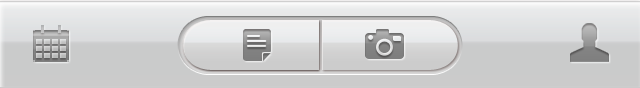
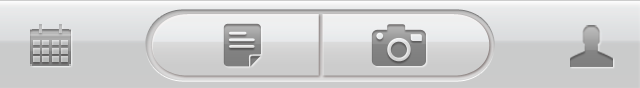
toolbar revised.

diff --git a/wammer/WATimelineViewControllerPhone.m b/wammer/WATimelineViewControllerPhone.m
@@ -118,14 +118,14 @@ static NSString * const WAPostsViewControllerPhone_RepresentedObjectURI = @"WAPo
 //    UIBarButtonItem *buttonBarShare = [[UIBarButtonItem alloc]initWithImage:[UIImage imageNamed:@"top_icon_share.png"] style:UIBarButtonItemStylePlain target:self action:@selector(buttonSharePressed:)];
 		
 	UIImage *cameraPressed = [UIImage imageNamed:@"CameraPressed"];
-	UIButton *cameraButton= [[UIButton alloc] initWithFrame:(CGRect){8,1, cameraPressed.size.width, cameraPressed.size.height}];
+	UIButton *cameraButton= [[UIButton alloc] initWithFrame:(CGRect){0,0,cameraPressed.size.width,cameraPressed.size.height}];
 	[cameraButton setBackgroundImage:cameraPressed forState:UIControlStateHighlighted];
 	[cameraButton addTarget:self action:@selector(handleCameraCapture:) forControlEvents:UIControlEventTouchUpInside];
 	[cameraButton setShowsTouchWhenHighlighted:YES];
 	
 	
 	UIImage *notePressed = [UIImage imageNamed:@"NotePressed"];
-	UIButton *noteButton= [[UIButton alloc] initWithFrame:(CGRect){0,0, notePressed.size.width, notePressed.size.height}];
+	UIButton *noteButton= [[UIButton alloc] initWithFrame:(CGRect){0,0,notePressed.size.width,notePressed.size.height}];
 	[noteButton setBackgroundImage:notePressed forState:UIControlStateHighlighted];
 	[noteButton addTarget:self action:@selector(handleCompose:) forControlEvents:UIControlEventTouchUpInside];
 	[noteButton setShowsTouchWhenHighlighted:YES];
@@ -134,7 +134,7 @@ static NSString * const WAPostsViewControllerPhone_RepresentedObjectURI = @"WAPo
 	alphaSpacer.width = 14.0;
 	
 	UIBarButtonItem *omegaSpacer= [[UIBarButtonItem alloc] initWithBarButtonSystemItem:UIBarButtonSystemItemFixedSpace target:nil action:nil];
-	omegaSpacer.width = 50.0;
+	omegaSpacer.width = 34.0;
 	
 	UIBarButtonItem *zeroSpacer= [[UIBarButtonItem alloc] initWithBarButtonSystemItem:UIBarButtonSystemItemFixedSpace target:nil action:nil];
 	zeroSpacer.width = -10;
@@ -395,6 +395,7 @@ NSString * const kWAPostsViewControllerLastVisibleRects = @"WAPostsViewControlle
   
 	[super viewWillAppear:animated];
 	
+	[self.navigationController.toolbar setTintColor:[UIColor whiteColor]];
 	[self.navigationController.toolbar setBackgroundImage:[UIImage imageNamed:@"ToolbarWithButtons"] forToolbarPosition:UIToolbarPositionAny barMetrics:UIBarMetricsDefault];
 	[self.navigationController setToolbarHidden:NO animated:animated];
 	
